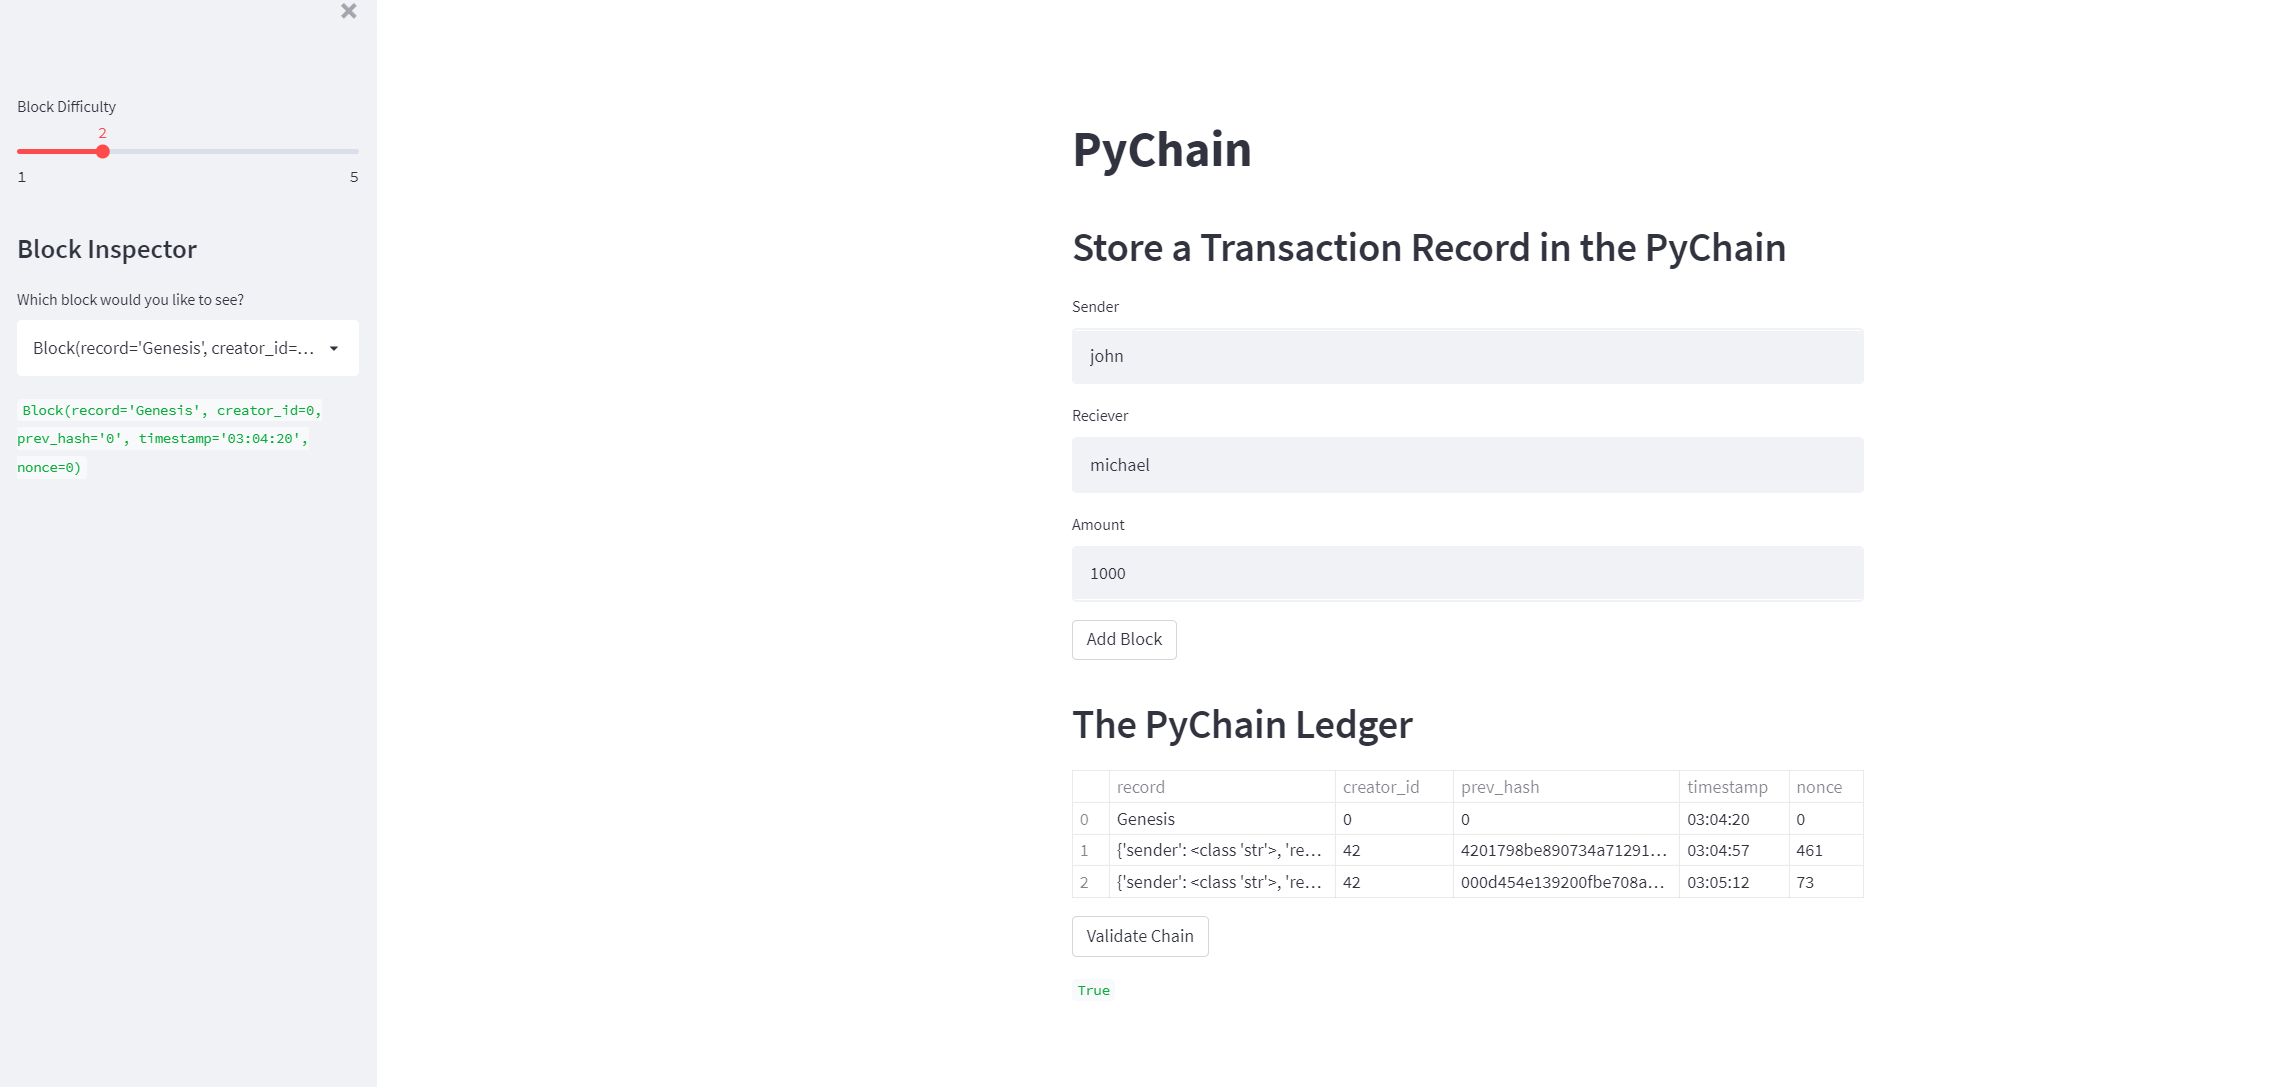
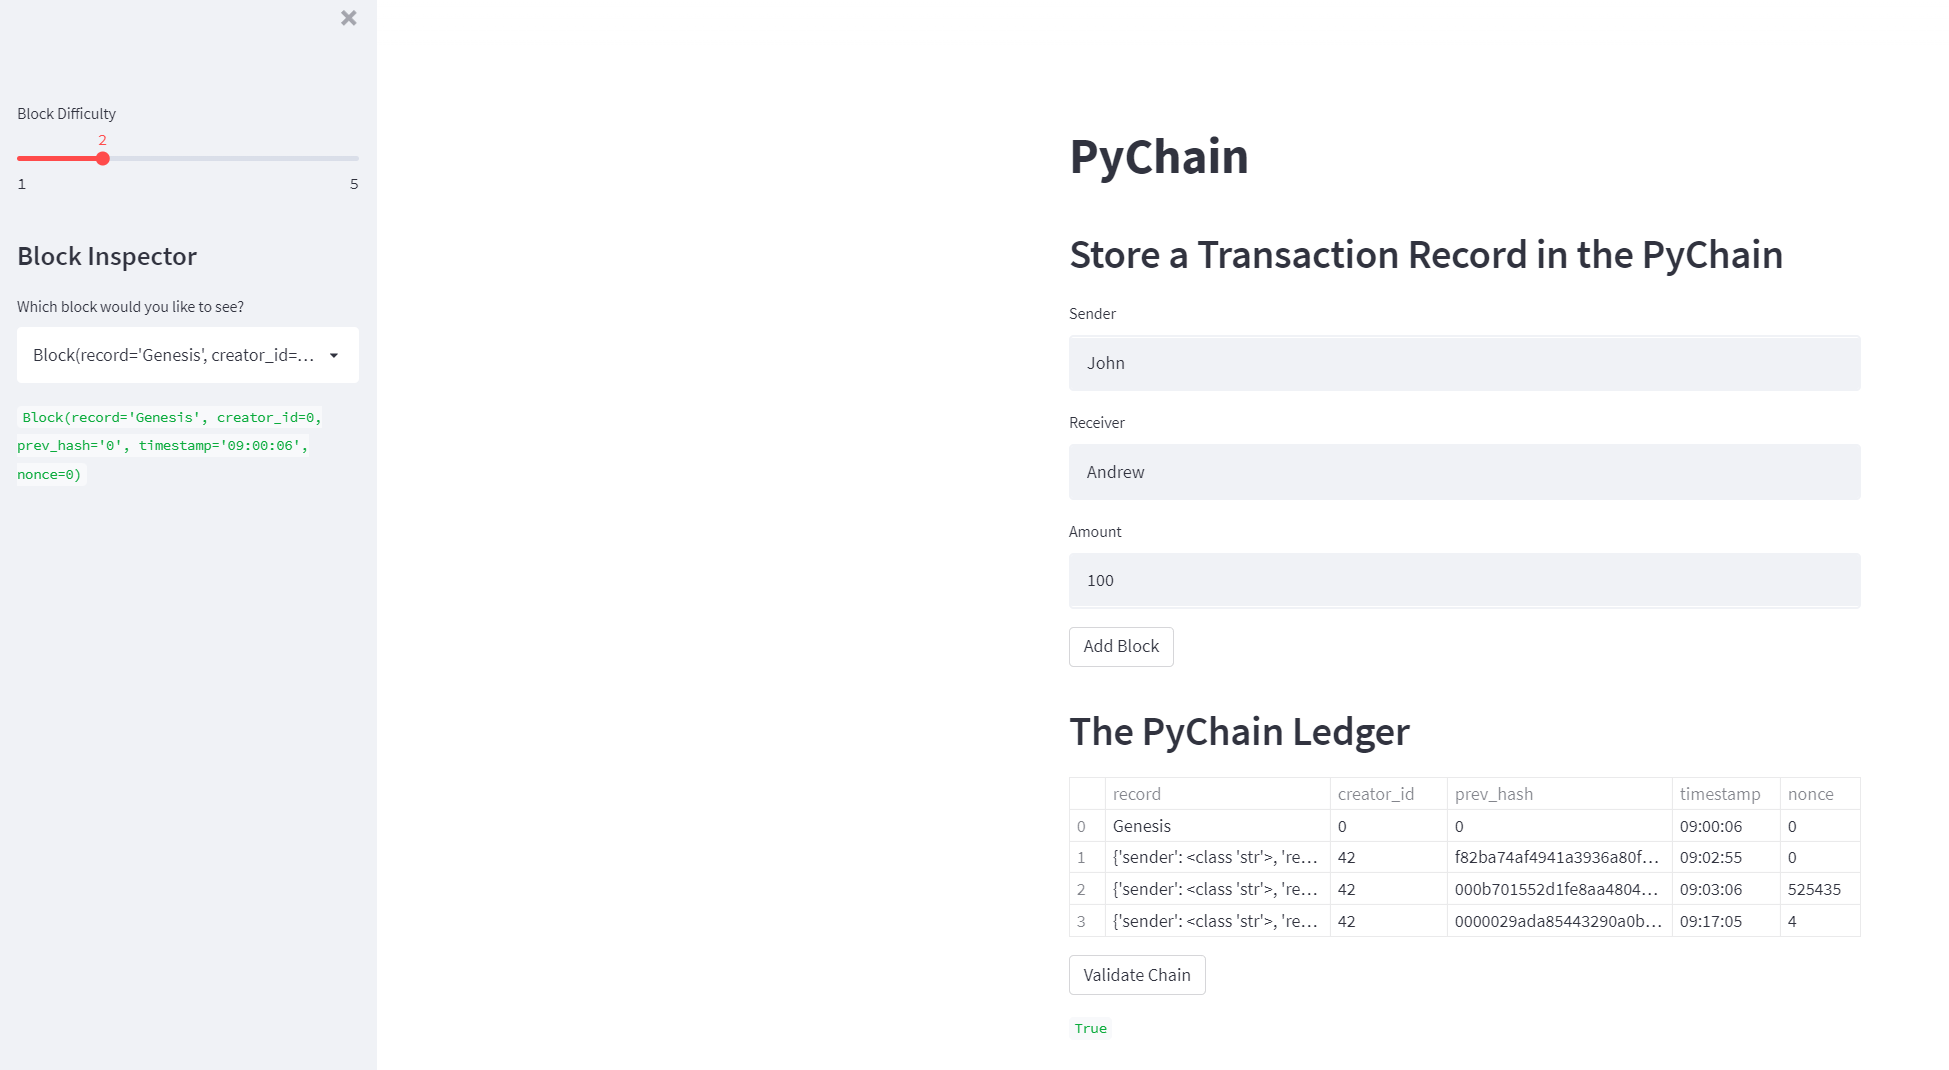
added images

diff --git a/Code/pychain.py b/Code/pychain.py
@@ -176,7 +176,7 @@ sender = st.text_input("Sender")
 
 # @TODO:
 # Add an input area where you can get a value for `receiver` from the user.
-reciever = st.text_input("Reciever")
+receiver = st.text_input("Receiver")
 
 # @TODO:
 # Add an input area where you can get a value for `amount` from the user.
